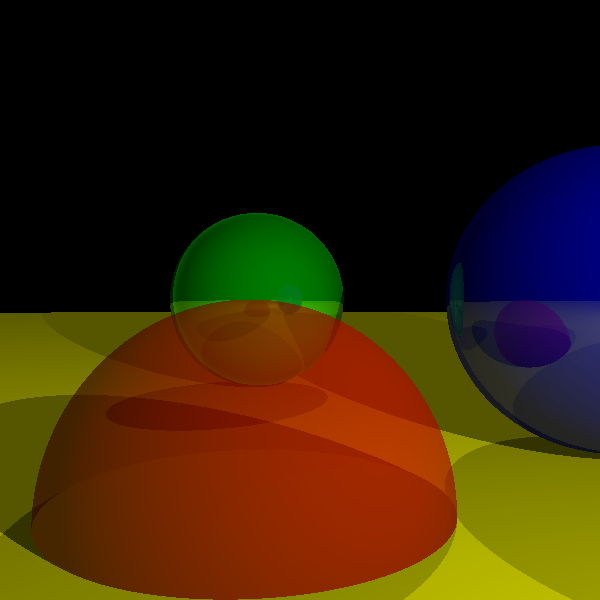
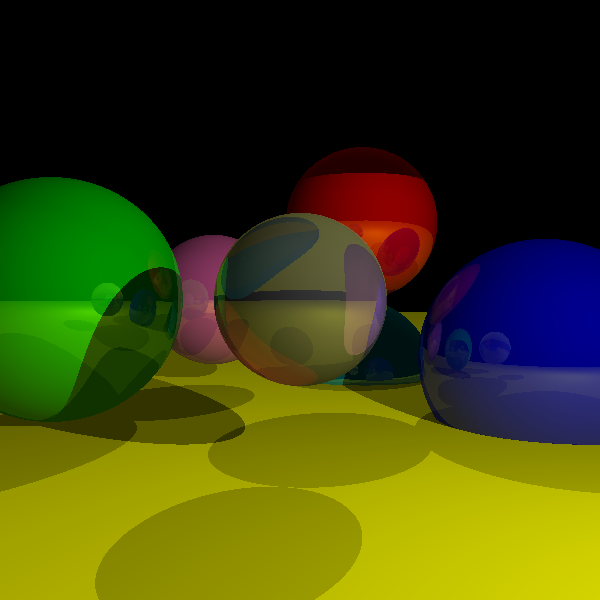
add refraction calculations.

diff --git a/src/main/java/RayTracer.java b/src/main/java/RayTracer.java
@@ -37,6 +37,7 @@ public class RayTracer extends JPanel {
     private final int traceMin = 1;
     private final int traceMax = 1000000000;
     private final int recursionDepth = 3;
+    private int rIndexAir = 1;
 
     public static void main(String[] args) {
         RayTracer rt = new RayTracer();
@@ -46,7 +47,7 @@ public class RayTracer extends JPanel {
         Vec tempColor;
 
         // Specify the camera view.
-        rt.cameraDirection = new Vec(0, 0, 0);
+        rt.cameraDirection = new Vec(0, 0, -1);
         rt.cameraRotation = new Vec[]{
                 new Vec(0.7071, 0, -0.7071),
                 new Vec(0, 1, 0),
@@ -61,28 +62,58 @@ public class RayTracer extends JPanel {
 
         // Specify the objects in the scene.
         scene.addShape(new Sphere(
-                new Vec(-0.25, -1, 3),
-                1,
-                new Vec(255, 0, 0),
-                100000000,
-                0,
-                0.4));
+                new Vec(0, 0, 2.5),
+                0.5,
+                new Vec(255, 255, 255),
+                500,
+                0.3,
+                0.4,
+                1.5));
 
         scene.addShape(new Sphere(
-                new Vec(2, 0, 4),
+                new Vec(0.6, 0.75, 5),
+                0.75,
+                new Vec(255, 0, 0),
+                500,
+                0.3,
+                0,
+                1));
+
+        scene.addShape(new Sphere(
+                new Vec(-1, 0, 6),
+                0.75,
+                new Vec(255, 105, 180),
+                500,
+                0.3,
+                0,
+                1));
+
+        scene.addShape(new Sphere(
+                new Vec(0.75, -1, 7),
+                1,
+                new Vec(0, 128, 128),
+                500,
+                0.3,
+                0,
+                1));
+
+        scene.addShape(new Sphere(
+                new Vec(2, -0.5, 4),
                 1,
                 new Vec(0, 0, 255),
                 500,
                 0.3,
-                0));
+                0,
+                1));
 
         scene.addShape(new Sphere(
-                new Vec(-0.5, 0, 7),
+                new Vec(-2, 0, 4),
                 1,
                 new Vec(0, 255, 0),
-                10,
-                0.4,
-                0));
+                500,
+                0.3,
+                0,
+                1));
 
         scene.addShape(new Sphere(
                 new Vec(0, -5001, 0),
@@ -90,7 +121,8 @@ public class RayTracer extends JPanel {
                 new Vec(255, 255, 0),
                 100000000,
                 0,
-                0));
+                0,
+                1));
 
 
         // Specify the lighting in the scene.
@@ -157,10 +189,10 @@ public class RayTracer extends JPanel {
         Vec transparentColor = new Vec(0,0,0);
         Vec origin = ray.getOrigin();
         Vec direction = ray.getDirection();
-        Ray reflectedRay, transparentRay, refractRay;
+        Ray reflectedRay, transparentRay, refractedRay;
 
         double reflective;
-        double refractive;
+        double rIndex = 1;
         double transparent;
         double closeIntersection, farIntersection;
 
@@ -168,7 +200,10 @@ public class RayTracer extends JPanel {
         closestShapeIntersections = getClosestShapeIntersections(ray, traceMin, traceMax);
         closestShape = closestShapeIntersections.getShape();
         closeIntersection = closestShapeIntersections.getCloseIntersection();
-        farIntersection = closestShapeIntersections.getFarIntersection();
+        if (closestShape != null) {
+            rIndex = closestShape.getRIndex();
+        }
+//        farIntersection = closestShapeIntersections.getFarIntersection();
 
         if (closestShape == null) return backgroundColor;
 
@@ -187,27 +222,19 @@ public class RayTracer extends JPanel {
             reflectedColor = traceRay(reflectedRay, 0.001, traceMax, recursionDepth - 1);
         }
 
-//        // Compute transparency.
-//        if (recursionDepth > 0 && transparent > 0) {
-//            farPoint = origin.add(direction.scale(farIntersection));
-//            transparentRay = new Ray(farPoint, direction);
-//            transparentColor = traceRay(transparentRay, 0.001, traceMax, recursionDepth - 1);
-//        }
-
+        ClosestShapeIntersections closestShapeIntersectionsRefraction;
         // Compute transparency (refraction).
         if (recursionDepth > 0 && transparent > 0) {
-            // calculate angle of incidence.
-            // calculate angle of refraction.
-            // calculate new vector.
-            // calculate intersection between new vector and sphere.
-            //
-            // calculate angle of incidence.
-            // calculate angle of refraction.
-            // calculate new vector.
-            // calculate intersection between new vector and next sphere.
-            farPoint = origin.add(direction.scale(farIntersection));
-            transparentRay = new Ray(farPoint, direction);
-            transparentColor = traceRay(transparentRay, 0.001, traceMax, recursionDepth - 1);
+            refractedRay = new Ray(closePoint, refractRay(direction, closeNormal, rIndexAir, rIndex));
+
+            closestShapeIntersectionsRefraction = getClosestShapeIntersections(refractedRay, traceMin, traceMax);
+            farIntersection = closestShapeIntersectionsRefraction.getCloseIntersection();
+            farPoint = closePoint.add(refractedRay.getDirection().scale(farIntersection));
+            farNormal = (farPoint.sub(((Sphere) closestShape).getCenter())).scale(-1);
+            farNormal = farNormal.scale(1.0 / farNormal.length());
+
+            refractedRay = new Ray(farPoint, refractRay(refractedRay.getDirection(), farNormal, rIndex, rIndexAir));
+            transparentColor = traceRay(refractedRay, 0.001, traceMax, recursionDepth- 1);
         }
 
         return (localColor.scale(1 - reflective - transparent).add(reflectedColor.scale(reflective))).add(transparentColor.scale(transparent));
@@ -218,13 +245,13 @@ public class RayTracer extends JPanel {
         return ((N.scale(2)).scale(N.dotProduct(R.scale(-1)))).add(R);
     }
 
-    public Vec refractRau(Vec R, Vec N, double ni, double nr) {
+    public Vec refractRay(Vec R, Vec N, double n1, double n2) {
         double cosTheta = N.dotProduct(R.scale(-1));
-        double n = ni / nr;
+        double n = n1 / n2;
         return R.scale(n).add(N.scale((n * cosTheta) - Math.sqrt(1 - (n * n * (1 - (cosTheta * cosTheta))))));
     }
 
-    // Return a shape and the closest intersection of that shape and a ray.
+    // Return the closest shape and the intersections of that shape and a ray.
     public ClosestShapeIntersections getClosestShapeIntersections(Ray ray, double traceMin, double traceMax) {
         double closeIntersection = traceMax + 1;
         double farIntersection = traceMax + 1;

diff --git a/src/main/java/scene/Shapes/Sphere.java b/src/main/java/scene/Shapes/Sphere.java
@@ -7,13 +7,14 @@ public class Sphere extends Shape {
     private Vec center;
     private double radius;
 
-    public Sphere(Vec center, double radius, Vec color, int specular, double reflective, double transparent) {
+    public Sphere(Vec center, double radius, Vec color, int specular, double reflective, double transparent, double rIndex) {
         this.center = center;
         this.radius = radius;
         this.color = color;
         this.specular = specular;
         this.reflective = reflective;
         this.transparent = transparent;
+        this.rIndex = rIndex;
     }
 
     // Check where ray intersects with the sphere and return intersections if any.

diff --git a/src/main/java/scene/Shapes/Shape.java b/src/main/java/scene/Shapes/Shape.java
@@ -9,6 +9,7 @@ public abstract class Shape {
     protected int specular;
     protected double reflective;
     protected double transparent;
+    protected double rIndex;
 
     public abstract RayIntersections checkIntersect(Ray ray);
 
@@ -26,5 +27,9 @@ public abstract class Shape {
 
     public double getTransparent() {
         return transparent;
+    }
+
+    public double getRIndex() {
+        return rIndex;
     }
 }

diff --git a/README.md b/README.md
@@ -15,6 +15,7 @@ This is a simple ray tracer using the Phong lighting model developed to learn mo
 - Shadows
 - Reflection
 - Transparency
+- Refraction
 - Camera Rotation
 
 # Current Image
